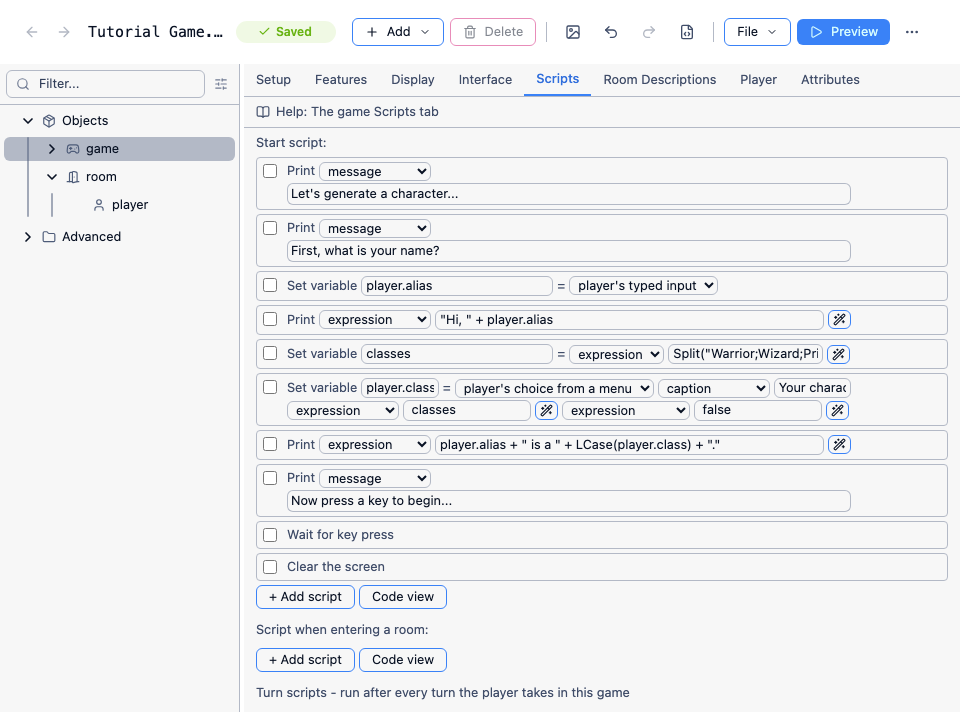
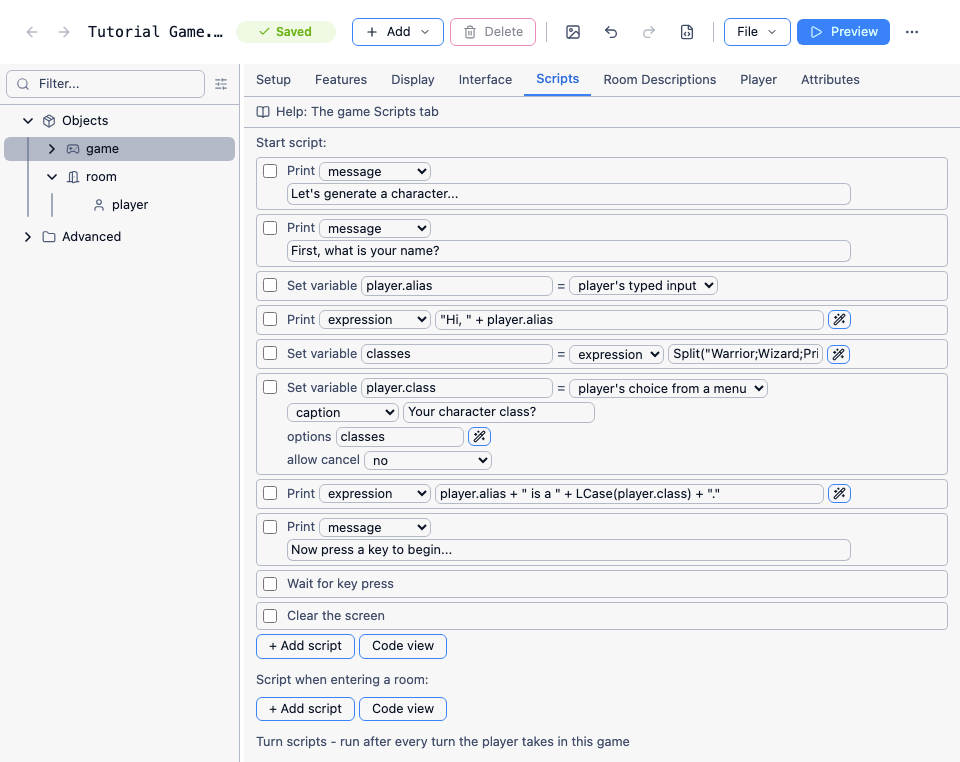
fix(Editor): fix nested commas in expression templates and tidy the "player's choice from a menu" editor (#2438)

diff --git a/src/AppShell/src/components/ScriptEditor.svelte b/src/AppShell/src/components/ScriptEditor.svelte
@@ -1259,14 +1259,26 @@
     {#if inTemplateMode && tmplData}
         <!-- Template controls (e.g. object picker for Got(#object#)) -->
         {#each tmplData.controls as ctrl (ctrl.name)}
+            {#if ctrl.breakBefore}
+                <!-- <breakbefore/> - see the matching break in the script controls loop above. -->
+                <span class="basis-full h-0"></span>
+            {/if}
             {#if ctrl.controlType === "label"}
                 <!-- Static caption between controls, e.g. RandomChance's "% of the time" -->
                 <span class="text-surface-600-400 select-none">{ctrl.caption ?? ""}</span>
             {:else if ctrl.simpleEditor === "boolean"}
                 {@const boolSimple = inTemplateParamSimpleMode(overrideKey, ctrl)}
+                {@const boolLabel = ctrl.simpleLabel ?? ctrl.caption}
                 <!-- Boolean: yes / no / expression dropdown, no separate widget - mirrors
-                     valueControl's non-template boolean handling. -->
+                     valueControl's non-template boolean handling. Other simple editors name
+                     their parameter in their mode toggle (e.g. "caption"), but this dropdown's
+                     options are the values themselves, so it needs its own label (e.g.
+                     ShowMenu's "allow cancel"). -->
+                {#if boolLabel}
+                    <span class="text-surface-600-400 select-none">{boolLabel}</span>
+                {/if}
                 <select
+                    aria-label={boolLabel ?? undefined}
                     class="select text-xs py-0 px-1 max-w-32"
                     value={boolSimple ? ctrl.value : "expression"}
                     onchange={(e) => {

diff --git a/src/AppShell/src/lib/types.ts b/src/AppShell/src/lib/types.ts
@@ -230,6 +230,8 @@ export interface ExpressionTemplateControlData {
   minimum?: number | null
   maximum?: number | null
   increment?: number | null
+  // <breakbefore/> - starts this parameter on a new line, as for ScriptControlData.breakBefore.
+  breakBefore?: boolean
 }
 
 export interface ExpressionTemplateData {

diff --git a/tests/EditorCoreTests/ExpressionTemplateTests.cs b/tests/EditorCoreTests/ExpressionTemplateTests.cs
@@ -1,0 +1,148 @@
+using System.Text;
+using QuestViva.Common;
+using QuestViva.EditorCore;
+
+namespace QuestViva.EditorCoreTests;
+
+// Regression coverage for issue #2343: expression templates turned each #param# into a greedy
+// "(?<param>.*)", so a template like ShowMenu(#caption#, #options#, #allowcancel#) split its
+// parameters on any comma, including ones nested inside an inner call such as Split("a;b", ";").
+// Template parameters now only match bracket-balanced text, with string literals kept intact,
+// and their values are trimmed of surrounding whitespace.
+[TestClass]
+public class ExpressionTemplateTests
+{
+    private const string ShowMenuPattern = "ShowMenu(#caption#, #options#, #allowcancel#)";
+
+    private static EditorController _controller = null!;
+
+    [ClassInitialize]
+    public static async Task ClassInit(TestContext _)
+    {
+        _controller = await LoadController("English");
+    }
+
+    private static async Task<EditorController> LoadController(string templateName)
+    {
+        var templates = EditorController.GetAvailableTemplates();
+        var template = templates.Values.Single(t => t.TemplateName == templateName);
+        var initialFileText = EditorController.CreateNewGameFile(template.ResourceName, "Test");
+        var bytes = Encoding.UTF8.GetBytes(initialFileText);
+
+        var controller = new EditorController();
+        controller.ClearTree += (_, _) => { };
+        controller.BeginTreeUpdate += (_, _) => { };
+        controller.EndTreeUpdate += (_, _) => { };
+        controller.AddedNode += (_, _) => { };
+
+        var ok = await controller.Initialise(new ByteArrayGameDataProvider(bytes, "test.aslx"));
+        Assert.IsTrue(ok, $"Initialisation failed for template '{templateName}'");
+        return controller;
+    }
+
+    [ClassCleanup]
+    public static void ClassCleanup()
+    {
+        _controller.Dispose();
+    }
+
+    private static IEditorData GetParameters(string expression, string expressionType, string expectedPattern)
+    {
+        var definition = _controller.GetExpressionEditorDefinition(expression, expressionType);
+        Assert.IsNotNull(definition, $"No template matched '{expression}'");
+        Assert.AreEqual(expectedPattern, definition.OriginalPattern);
+        return _controller.GetExpressionEditorData(expression, expressionType, null!);
+    }
+
+    [TestMethod]
+    public void ShowMenuWithNestedCommasSplitsOnTopLevelCommasOnly()
+    {
+        var data = GetParameters(
+            """ShowMenu("Your character class?", Split("Warrior;Wizard;Priest;Thief", ";"), false)""",
+            "set", ShowMenuPattern);
+
+        Assert.AreEqual("\"Your character class?\"", data.GetAttribute("caption"));
+        Assert.AreEqual("""Split("Warrior;Wizard;Priest;Thief", ";")""", data.GetAttribute("options"));
+        Assert.AreEqual("false", data.GetAttribute("allowcancel"));
+    }
+
+    [TestMethod]
+    public void CommasAndBracketsInsideStringsAreIgnored()
+    {
+        var data = GetParameters(
+            """ShowMenu("Pick one, (or not)", Split("a,b", ","), true)""",
+            "set", ShowMenuPattern);
+
+        Assert.AreEqual("\"Pick one, (or not)\"", data.GetAttribute("caption"));
+        Assert.AreEqual("""Split("a,b", ",")""", data.GetAttribute("options"));
+        Assert.AreEqual("true", data.GetAttribute("allowcancel"));
+    }
+
+    [DataTestMethod]
+    [DataRow("GetRandomInt(1,6)")]
+    [DataRow("GetRandomInt(1, 6)")]
+    [DataRow("GetRandomInt( 1 ,  6 )")]
+    public void ParameterValuesAreTrimmedWhateverTheSpacing(string expression)
+    {
+        var data = GetParameters(expression, "set", "GetRandomInt(#min#, #max#)");
+
+        Assert.AreEqual("1", data.GetAttribute("min"));
+        Assert.AreEqual("6", data.GetAttribute("max"));
+    }
+
+    [TestMethod]
+    public void PatternWithSpaceAfterCommaMatchesExpressionWithout()
+    {
+        // GetBoolean's pattern has always had ", " - it used to require exactly that spacing.
+        var data = GetParameters("""GetBoolean(player,"flag")""", "if", "GetBoolean(#object#, #flag#)");
+
+        Assert.AreEqual("player", data.GetAttribute("object"));
+        Assert.AreEqual("\"flag\"", data.GetAttribute("flag"));
+    }
+
+    [TestMethod]
+    public void AdjacentParametersSplitOnTheSpaceBetweenThem()
+    {
+        var data = GetParameters("""GetInt(player, "score") >= 5""", "if",
+            "GetInt(#object#, #counter#) #compare# #value#");
+
+        Assert.AreEqual("player", data.GetAttribute("object"));
+        Assert.AreEqual("\"score\"", data.GetAttribute("counter"));
+        Assert.AreEqual(">=", data.GetAttribute("compare"));
+        Assert.AreEqual("5", data.GetAttribute("value"));
+    }
+
+    [TestMethod]
+    public void EmptyParameterStillMatches()
+    {
+        // "Got()" is what the template's own <create> expression inserts.
+        var data = GetParameters("Got()", "if", "Got(#object#)");
+
+        Assert.AreEqual("", data.GetAttribute("object"));
+    }
+
+    // ShowMenu's field names are translation keys, resolved when the editor's language
+    // library loads - both inside <simple> and in a label control's <caption>.
+    [DataTestMethod]
+    [DataRow("English", "caption", "options", "allow cancel")]
+    [DataRow("Deutsch", "Überschrift", "Optionen", "Abbrechen erlauben")]
+    public async Task ShowMenuFieldNamesAreTranslated(string templateName, string caption, string options,
+        string allowCancel)
+    {
+        using var controller = await LoadController(templateName);
+        var definition = controller.GetExpressionEditorDefinition("""ShowMenu("", NewStringList(), false)""", "set");
+        Assert.IsNotNull(definition);
+
+        var controls = definition.Controls.ToList();
+        Assert.AreEqual(caption, controls.Single(c => c.Attribute == "caption").GetString("simple"));
+        Assert.AreEqual(options, controls.Single(c => c.ControlType == "label").Caption);
+        Assert.AreEqual(allowCancel, controls.Single(c => c.Attribute == "allowcancel").GetString("simple"));
+    }
+
+    [TestMethod]
+    public void TemplateDoesNotMatchAcrossUnbalancedBrackets()
+    {
+        // Previously "Got(#object#)" matched this with object = "a) and Got(b"
+        Assert.IsNull(_controller.GetExpressionEditorDefinition("Got(a) and Got(b)", "if"));
+    }
+}

diff --git a/src/Engine/GameLoader/AttributeLoaders.cs b/src/Engine/GameLoader/AttributeLoaders.cs
@@ -292,6 +292,9 @@ internal partial class GameLoader
         [GeneratedRegex("#([A-Za-z]\\w+)#")]
         private partial Regex PatternVariableRegex();
 
+        [GeneratedRegex(@",\s+")]
+        private partial Regex CommaWhitespaceRegex();
+
         public override void Load(Element element, string attribute, string value)
         {
             if (element.Fields.GetAsType<bool>("isverb"))
@@ -309,10 +312,24 @@ internal partial class GameLoader
             }
         }
 
+        public void LoadEditorExpression(Element element, string attribute, string value)
+        {
+            // Parameters absorb the whitespace around them (see MatchReplaceBalanced), so drop
+            // any after a comma here - otherwise "GetBoolean(#object#, #flag#)" would only match
+            // expressions with exactly one space after the comma.
+            value = CommaWhitespaceRegex().Replace(value, ",");
+            LoadCommand(element, attribute, value, MatchReplaceBalanced);
+        }
+
         private void LoadCommand(Element element, string attribute, string value)
         {
+            LoadCommand(element, attribute, value, MatchReplace);
+        }
+
+        private void LoadCommand(Element element, string attribute, string value, MatchEvaluator matchReplace)
+        {
             value = value.Replace("(", @"\(").Replace(")", @"\)").Replace(".", @"\.").Replace("?", @"\?");
-            value = PatternVariableRegex().Replace(value, MatchReplace);
+            value = PatternVariableRegex().Replace(value, matchReplace);
 
             if (value.Contains('#'))
             {
@@ -341,6 +358,29 @@ internal partial class GameLoader
             return "(?<" + m.Groups[1].Value + ">.*)";
         }
 
+        // Matches only text whose brackets are balanced, treating "..." string literals as opaque,
+        // so the parameters of an expression template like "ShowMenu(#caption#, #options#, #allowcancel#)"
+        // split on top-level commas only - not on the comma inside a nested Split("a;b", ";").
+        // Bracket depth is tracked as a stack of captures on a .NET balancing group.
+        //
+        // The group is numbered rather than named because Utility.Populate and GetMatchStrength
+        // treat every non-numeric group name as a template parameter. The number is large because
+        // .NET also numbers named groups 1, 2, 3...; reusing one of those numbers would merge
+        // the depth stack into that parameter's group.
+        private const string BracketDepthGroup = "1000";
+
+        private const string BalancedExpression =
+            $$"""(?>"(?:[^"\\]|\\.)*"|[^"()\[\]{}]|[(\[{](?<{{BracketDepthGroup}}>)|[)\]}](?<-{{BracketDepthGroup}}>))*(?({{BracketDepthGroup}})(?!))""";
+
+        // The parameter's value is trimmed: surrounding whitespace is matched outside the group,
+        // and the value itself is either empty or starts and ends with a non-space character. So
+        // "ShowMenu(caption, options, false)" gives allowcancel "false", not " false", which the
+        // editor's yes/no dropdown wouldn't recognise.
+        private static string MatchReplaceBalanced(Match m)
+        {
+            return @"\s*(?<" + m.Groups[1].Value + @">(?:(?!\s)" + BalancedExpression + @"(?<!\s))?)\s*";
+        }
+
         private static void LoadVerb(Element element, string attribute, string value)
         {
             element.Fields.Set(attribute,
@@ -367,8 +407,9 @@ internal partial class GameLoader
             if (element.ElemType == ElementType.Editor)
             {
                 // For Editor elements, use the normal pattern loader to convert this
-                // simple pattern to a regex.
-                _patternLoader.Load(element, attribute, value);
+                // simple pattern to a regex. These patterns match expressions rather than player
+                // input, so their parameters must be bracket-balanced.
+                _patternLoader.LoadEditorExpression(element, attribute, value);
 
                 if (attribute == FieldDefinitions.Pattern.Property)
                 {

diff --git a/src/WasmEditor/WasmEditorBridge.cs b/src/WasmEditor/WasmEditorBridge.cs
@@ -166,7 +166,10 @@ internal record ExpressionTemplateControlData(
     // <minimum>/<maximum>/<increment> - bounds and step for a "number"/"numberdouble" control.
     double? Minimum = null,
     double? Maximum = null,
-    double? Increment = null
+    double? Increment = null,
+    // <breakbefore/> - same as ScriptControlData.BreakBefore, for a template's parameters
+    // (e.g. ShowMenu's caption/options/allow cancel each on their own line).
+    bool BreakBefore = false
 );
 
 internal record ExpressionTemplateData(
@@ -2299,7 +2302,8 @@ public partial class WasmEditorBridge
                     options,
                     minimum,
                     maximum,
-                    increment
+                    increment,
+                    ctrl.GetBool("breakbefore")
                 );
             })
             .ToList();
